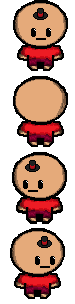
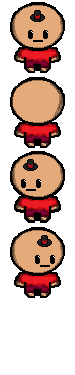
bugfix-1(part 2)

diff --git a/Cloneisaac/src/entities/Player.java b/Cloneisaac/src/entities/Player.java
@@ -12,7 +12,7 @@ import World.World;
 public class Player extends Entity {
 		public boolean right,up,left,down;
 		public boolean aright,aup,aleft,adown;
-		int iframeMax=60,iframe=0;
+		int iframeMax=30,iframe=0;
 		public int ma=30,a=0,xg,yg;
 		public boolean ab=true,lr=false,colu=false,cold=false,coll=false,colr=false;
 		public double damage=10,speed=2.2;
@@ -20,8 +20,8 @@ public class Player extends Entity {
 		public int maxvida = 8,vida =maxvida;
 		private BufferedImage[] players;
 		private int maxSprite=4,curSprite;
-		private boolean dam=false;
-		public int kb= 4;
+		public boolean dam=false;
+		public int kb= 10;
 		public Player(int x, int y, int width, int height,BufferedImage sprite) {
 			super(x, y, width, height, sprite);
 			players = new BufferedImage[4];
@@ -85,7 +85,7 @@ public class Player extends Entity {
 		if(!dam) {
 		dam=true;
 		vida-=dama;
-		if(World.isFree((int)(x + Math.cos(e1.calculateAngle(e1.getX(), e1.getY(),Game.player.getX(),Game.player.getY()))*kb),(int)(y += Math.sin(e1.calculateAngle(e1.getX(), e1.getY(),Game.player.getX(),Game.player.getY()))*kb))) {
+		if(World.isFree((int)(x + Math.cos(e1.calculateAngle(e1.getX(), e1.getY(),this.getX(),this.getY()))*kb),(int)(y + Math.sin(e1.calculateAngle(e1.getX(), e1.getY(),this.getX(),this.getY()))*kb))) {
 			x += Math.cos(this.calculateAngle(e1.getX(), e1.getY(),Game.player.getX(),Game.player.getY()))*kb;
 			y += Math.sin(this.calculateAngle(e1.getX(), e1.getY(),Game.player.getX(),Game.player.getY()))*kb;
 			}}
@@ -105,7 +105,14 @@ public class Player extends Entity {
 
 	
 	public void render(Graphics2D g) {	   
-		
+		boolean in = false;
+		if(dam) {
+			in=true;
+		}
+		if(!in) {
 		g.drawImage(players[curSprite], this.getX()-Camera.x, this.getY()-Camera.y, width, height,null);
+		}else {
+		g.drawImage(invecible, this.getX()-Camera.x, this.getY()-Camera.y, width, height,null);
+		}
 		
 	}}

diff --git a/Cloneisaac/src/Game/Ui.java b/Cloneisaac/src/Game/Ui.java
@@ -9,15 +9,27 @@ public class Ui {
 	public BufferedImage half= Game.health.getSprite(15, 0, 15, 16);
 	public BufferedImage hollow= Game.health.getSprite(30, 0, 15, 16);
 	public double draw =3,maxdraw;
+	private int ms=0,s=0,m=0;
 	public void Ui(){
 		
 	}
 	public void tick() {
+		if(Game.enimies.size()>0) {
+		ms++;
+		if(ms==60) {
+			ms=0;
+			s++;
+			if(s==60) {
+				m++;
+				s=0;
+			}}
+		}
 		draw = Game.player.vida/2;
 		maxdraw = Game.player.maxvida/2;
 	}	
 	public void render(Graphics g) {
 		g.drawString("kills: "+Game.player.kills, Game.WIDTH-20, 20);
+		g.drawString(String.format("%02d", m)+":"+String.format("%02d", s)+':'+String.format("%02d", ms), Game.WIDTH*2-40, 20);
 		for(int i=0;i<maxdraw;i++) {
 			 g.drawImage(hollow, 0+(i*25), 0,25,25, null);
 			 if(Game.player.vida%2!=0 && draw==i) {

diff --git a/Cloneisaac/src/entities/Entity.java b/Cloneisaac/src/entities/Entity.java
@@ -22,6 +22,7 @@ public class Entity {
 	public static BufferedImage koala1 = Game.koala.getSprite(0, 0, 24, 40);
 	public static BufferedImage koalaboll = Game.koala.getSprite(0, 20, 24, 20);
 	public static BufferedImage ball = Game.boll.getSprite(0, 0, 43, 39);
+	public static BufferedImage invecible = Game.plaer.getSprite(0, 75*4, 75, 75);
 	public Entity (int x,int y,int width,int height,BufferedImage sprite) {
 	this.x = x ;	
 	this.y = y;

diff --git a/Cloneisaac/src/entities/Seed.java b/Cloneisaac/src/entities/Seed.java
@@ -25,7 +25,7 @@ public class Seed extends Entity{
 		x+=vx*speed;
 		y+=vy*speed;
 		
-		if(isColidding(this, Game.player)) {
+		if(isColidding(this, Game.player) && !Game.player.dam) {
 			Game.player.damege(dam,this);
 			Game.shoot.remove(this);
 	}
